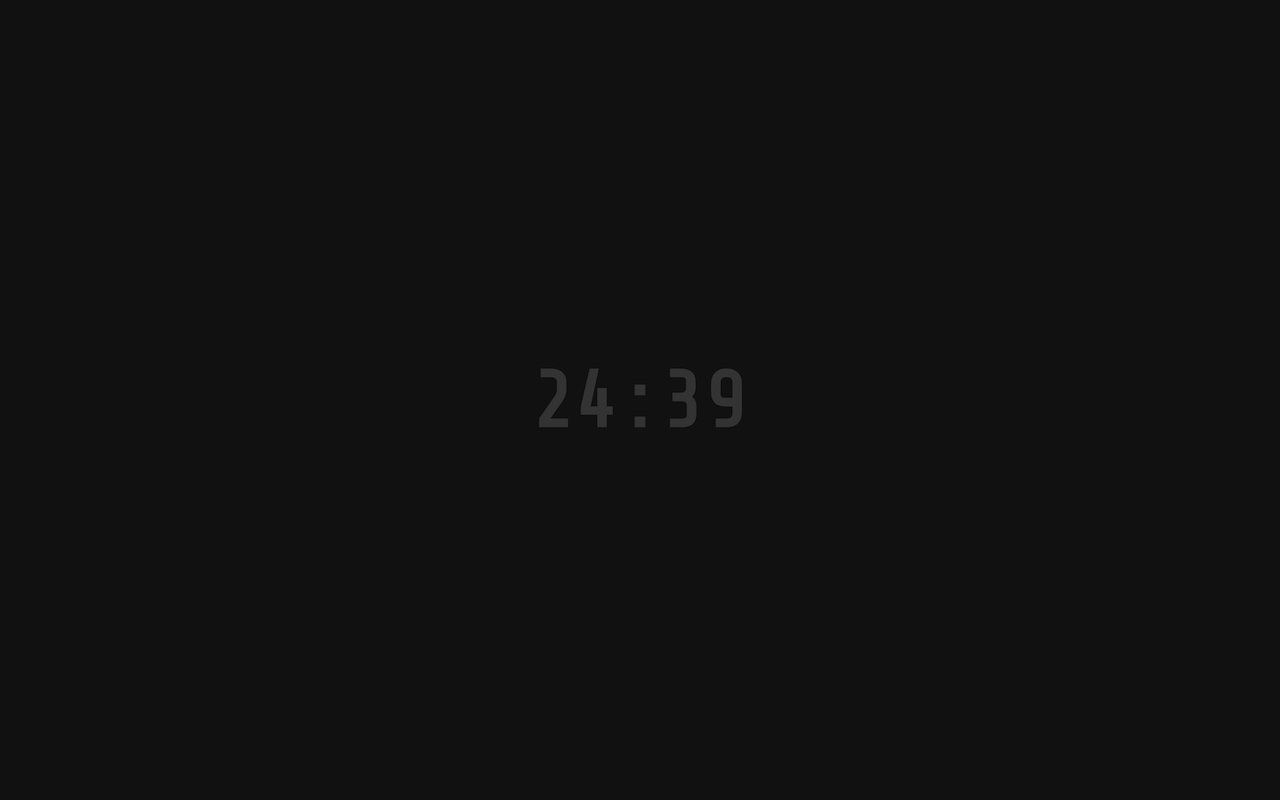
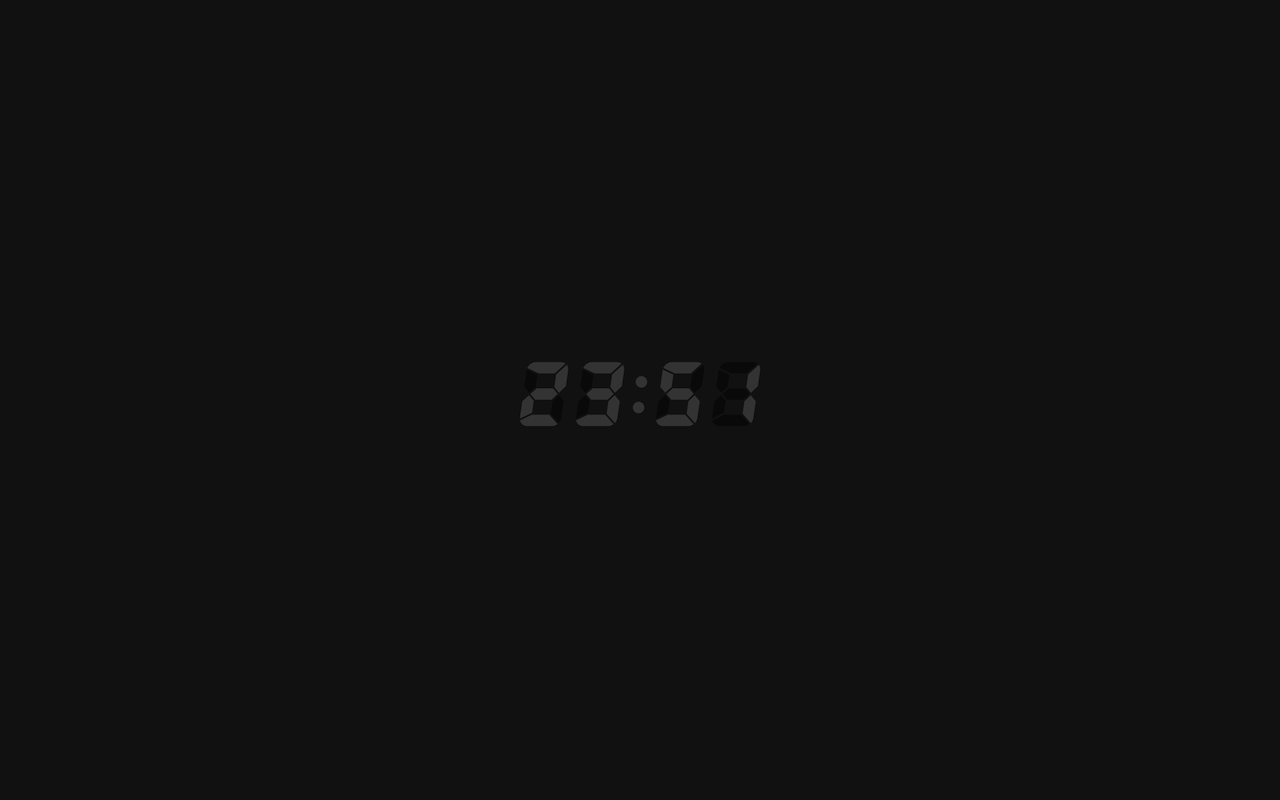
Use seven segment display

Changed region(s): [[0.4062, 0.4375, 0.5938, 0.5312]]

diff --git a/src/TimerDisplay.tsx b/src/TimerDisplay.tsx
@@ -1,0 +1,114 @@
+import React from 'react'
+import './TimerDisplay.css'
+
+export default function TimerDisplay(props: { colon: boolean; seconds: number; running: boolean }): JSX.Element {
+  const digits = secondsToDigits(props.seconds)
+  return (
+    <div className={'Timer' + (props.running ? '' : ' zero')}>
+      <Digit segments={digitTo7SegmentByte(digits[3])} highlight={!props.running} />
+      <Digit segments={digitTo7SegmentByte(digits[2])} highlight={!props.running} />
+      <Colon on={props.colon || !props.running} highlight={!props.running} />
+      <Digit segments={digitTo7SegmentByte(digits[1])} highlight={!props.running} />
+      <Digit segments={digitTo7SegmentByte(digits[0])} highlight={!props.running} />
+    </div>
+  )
+}
+
+function secondsToDigits(seconds: number): number[] {
+  const m = Math.floor(seconds / 60)
+  const s = seconds % 60
+  return [s % 10, Math.floor(s / 10), m % 10, Math.floor(m / 10)]
+}
+
+function Digit(props: { segments: number; highlight: boolean }): JSX.Element {
+  const bits = byteToBits(props.segments)
+  const onColor = props.highlight ? '#ffffff' : '#333333'
+  const offColor = '#090909'
+  return (
+    <div className="Digit">
+      <svg viewBox="0 0 68 90" width="100%" height="100%">
+        <g id="digit" transform="translate(-32.112548,-36.909167)">
+          <path
+            id="a"
+            style={{ fill: bits[0] ? onColor : offColor }}
+            d="m 42.740542,45.193624 15.945797,7.723042 h 22.567614 l 15.085902,-13.73973 c -1.723896,-1.343925 -3.95192,-2.13527 -6.485909,-2.13527 H 55.080357 c -5.276503,0 -10.197512,3.419679 -12.339815,8.151958 z"
+          />
+          <path
+            id="b"
+            style={{ fill: bits[1] ? onColor : offColor }}
+            d="m 98.09427,40.961841 -14.849224,13.522688 -2.505789,17.829918 6.395474,7.766968 9.675378,-9.159647 3.130561,-22.276676 c 0.41497,-2.952715 -0.312182,-5.639397 -1.8464,-7.683251 z"
+          />
+          <path
+            id="c"
+            style={{ fill: bits[2] ? onColor : offColor }}
+            d="m 93.827863,92.142179 -6.920507,-8.40414 -8.966896,8.488373 -2.447396,17.414958 11.48819,13.00541 c 1.880095,-1.98383 3.191785,-4.50161 3.578074,-7.25021 z"
+          />
+          <path
+            id="d"
+            style={{ fill: bits[3] ? onColor : offColor }}
+            d="M 85.110565,124.30611 73.467351,111.125 H 49.128267 l -16.69614,7.93905 C 33.326686,123.68337 37.242308,127 42.437719,127 h 34.773589 c 2.868165,0 5.630378,-1.01155 7.899257,-2.69389 z"
+          />
+          <path
+            id="e"
+            style={{ fill: bits[4] ? onColor : offColor }}
+            d="m 32.257462,116.37842 16.96434,-8.06617 2.411222,-17.159676 -6.50658,-7.551994 -9.505363,8.526613 -3.270086,23.269377 c -0.04653,0.33111 -0.0752,0.65793 -0.09353,0.98185 z"
+          />
+          <path
+            id="f"
+            style={{ fill: bits[5] ? onColor : offColor }}
+            d="m 38.447265,72.01886 6.907588,8.018113 8.972063,-8.048088 2.421557,-17.233055 -14.815632,-7.175789 c -0.0813,0.350896 -0.149992,0.705634 -0.200504,1.065051 z"
+          />
+          <path
+            id="g"
+            style={{ fill: bits[6] ? onColor : offColor }}
+            d="m 55.736648,74.083332 -8.749337,7.8481 6.915341,8.0269 H 76.70126 l 8.613428,-8.154024 -6.357752,-7.720976 z"
+          />
+        </g>
+      </svg>
+    </div>
+  )
+}
+
+function byteToBits(byte: number): boolean[] {
+  return Array.from(Array(8)).map((_, i) => !!((byte >> i) % 2))
+}
+
+function digitTo7SegmentByte(digit: number) {
+  switch (digit) {
+    case 0:
+      return 63
+    case 1:
+      return 6
+    case 2:
+      return 91
+    case 3:
+      return 79
+    case 4:
+      return 102
+    case 5:
+      return 109
+    case 6:
+      return 125
+    case 7:
+      return 7
+    case 8:
+      return 127
+    case 9:
+      return 111
+    default:
+      return 0
+  }
+}
+
+function Colon(props: { on: boolean; highlight: boolean }): JSX.Element {
+  const onColor = props.highlight ? '#ffffff' : '#333333'
+  const offColor = '#090909'
+  return (
+    <div className="Colon">
+      <svg viewBox="0 0 20 90" width="100%" height="100%">
+        <circle style={{ fill: props.on ? onColor : offColor }} id="circle" cx="12" cy="28" r="8" />
+        <circle style={{ fill: props.on ? onColor : offColor }} id="circle" cx="8" cy="64" r="8" />
+      </svg>
+    </div>
+  )
+}

diff --git a/src/App.tsx b/src/App.tsx
@@ -1,6 +1,6 @@
 import React, { useEffect, useState } from 'react'
 import './App.css'
-import Timer from './Timer'
+import TimerDisplay from './TimerDisplay'
 
 function App(): JSX.Element {
   const [seconds, setSeconds] = useState(25 * 60)
@@ -13,7 +13,7 @@ function App(): JSX.Element {
   return (
     <div className="App">
       <header className="App-header">
-        <Timer colon={colon} running={running} seconds={seconds} />
+        <TimerDisplay colon={colon} running={running} seconds={seconds} />
       </header>
     </div>
   )

diff --git a/src/TimerDisplay.css b/src/TimerDisplay.css
@@ -1,0 +1,34 @@
+.Timer {
+  color: #333333;
+  font-size: 10vh;
+  font-weight: bold;
+}
+
+.Timer.zero {
+  color: #aaaaaa;
+  font-size: 20vh;
+}
+
+.Digit {
+  display: inline-block;
+  height: 8vh;
+  width: 7vh;
+}
+
+.zero .Digit {
+  display: inline-block;
+  height: 16vh;
+  width: 14vh;
+}
+
+.Colon {
+  display: inline-block;
+  height: 8vh;
+  width: 3vh;
+}
+
+.zero .Colon {
+  display: inline-block;
+  height: 16vh;
+  width: 6vh;
+}

diff --git a/README.md b/README.md
@@ -22,7 +22,6 @@ There are something to improve, though:
 
 - You might stare at the timer. I do this quite often. It's relaxing, but not what you should do.
 - Let others know that you are focusing and come back later. Ideas for this are welcome, both remote and colocated environments.
-- I'd like this to have a seven segment display. I like seven segment displays.
 
 ## Developing
 
@@ -30,7 +29,8 @@ There are something to improve, though:
 
 You need:
 
-- Node.js (v12 in the time of developing)
+- Node.js (https://nodejs.org/, v12 in the time of developing)
+- Yarn (`npm install -g yarn`)
 
 ### Preparing
 
